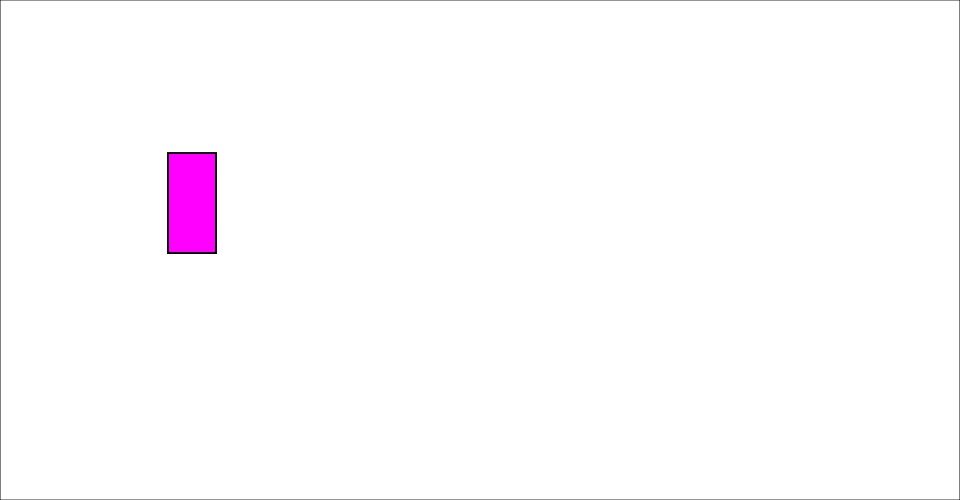
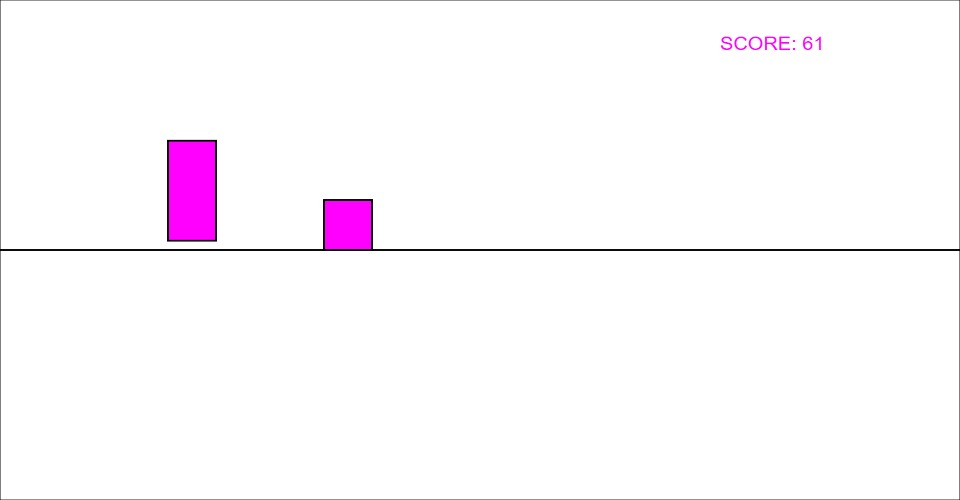
Added basic blocking

Changed region(s): [[0.0, 0.39, 1.0, 0.51], [0.75, 0.06, 0.875, 0.12], [0.1562, 0.27, 0.25, 0.33]]

diff --git a/draw_one_frame.js b/draw_one_frame.js
@@ -1,30 +1,52 @@
-let characterY=0+canvasHeight/2;
 
+const jumpStart=.6;
+const jumpEnd=1;
+const jumpTop=(jumpStart+jumpEnd)/2;
+const jumpHeight=canvasHeight/4;
+const groundY=canvasHeight/2;
+let characterY=groundY-canvasHeight/10;
 function draw_one_frame(cur_frac) {
 	fill(255,255,255);
-	
 	rectMode(CORNER);
 	rect(0,0,width,height);
 	drawCharacter(cur_frac);
-	drawGround();
+ 	drawGround(cur_frac);
+	drawTree(cur_frac);
+	drawScore(cur_frac);
+}
+function drawScore(cur_frac){
+	let score=floor(map(cur_frac,0,1,0,99));
+	textSize(20);
+	text('SCORE: '+score, 0+6/8*width, canvasHeight/10);
 }
 function drawCharacter(cur_frac){
 	rectMode(CENTER);
 	//stroke(0,0,0);
 	fill(255,0,255);
 	strokeWeight(width/500);
-	if(cur_frac>=.1&&cur_frac<=.5){
-		characterY=map(cur_frac, 0.1, .5, canvasHeight/2, canvasHeight/4);
+	if(cur_frac>=jumpStart&&cur_frac<=jumpTop){
+		characterY=map(cur_frac, jumpStart, jumpTop, groundY-canvasHeight/10, jumpHeight);
 	}
-	else if(cur_frac>=.5&&cur_frac<=.9){
-		characterY=map(cur_frac, 0.5, .9,canvasHeight/4, canvasHeight/2);
+	else if(cur_frac>=jumpTop&&cur_frac<=jumpEnd){
+		characterY=map(cur_frac, jumpTop, jumpEnd,jumpHeight, groundY-(canvasHeight/10));
+	}
+	else{
+		characterY=groundY-(canvasHeight/10);
 	}
 	
-	console.log(characterY);
-	rect(0+2*width/10,characterY,width/20,height/5);
+	//console.log(characterY);
+	console.log(cur_frac);
+	//console.log(groundY-height/10);
+	rect(0+2*width/10,characterY,width/20,canvasHeight/5);
 	
 	
 }
-function drawGround(){
-
+function drawGround(cur_frac){
+	line(0, groundY, width, groundY);
+}
+function drawTree(cur_frac){
+	let treeX=map(cur_frac,0,1,canvasWidth+canvasWidth/20,0-canvasWidth/20);
+	rectMode(CENTER);
+	rect(treeX,groundY-canvasHeight/20,canvasWidth/20,canvasHeight/10);
+	if(cur_frac>)
 }

diff --git a/README.md b/README.md
@@ -1,1 +1,1 @@
-I have added a sketch of my idea. It is going to be a sidescrolling platformer in the vane of the chrome no internet game (but with obviously no player although I may add one if I get bored as an extra). The character will jump over fractal trees. There will be couds in the background and the whole art style will be reasonably colourless. 
+I have added a sketch of my idea. It is going to be a sidescrolling platformer in the vane of the chrome no internet game (but with obviously no player although I may add one if I get bored as an extra). The character will jump over fractal trees. There will be couds in the background and the whole art style will be reasonably colourless. This version shows a basic blocking of  wha tI want although i may lower the ground level.
